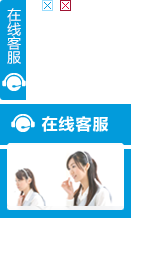
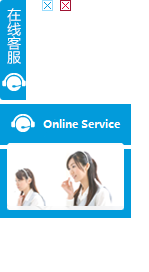
change the language

Changed region(s): [[0.2685, 0.4118, 0.8054, 0.5]]

diff --git a/public/stylesheets/style.css b/public/stylesheets/style.css
@@ -24,7 +24,7 @@ filter: progid:DXImageTransform.Microsoft.AlphaImageLoader(enabled=true, sizingM
 #topLink a{font-size:12px;color:#999;}
 #topLink a:hover{font-size:12px;color:#fff;}
 
-#copyright{position:absolute; right:50px; bottom:5px; z-index:888; width:400px; height:39px;}
+#copyright{position:absolute; right:50px; bottom:0px; z-index:888; width:400px; height:39px;}
 #footerbg{position:absolute; left:0px; bottom:0px; z-index:777; background:url(../images/footer.jpg); height:39px;}
 
 #sub_nav{height:339px; width:100%;background:url(../images/sub_menu_bg.png) repeat-x; display:none; margin-top:-1px; position:relative;}

diff --git a/models/switch_lang.js b/models/switch_lang.js
@@ -7,9 +7,12 @@ var dbService = require("../db"),
     async = require('async');
 
 var index = function(req,res){
-    var kind = req.body['language'];
+    /*var kind = req.body['language'];
     req.session.lang = kind;
-    res.send('success');
+    res.send('success');*/
+    var kind = req.query.lang;//category id
+    req.session.lang = kind;
+    res.redirect("/");
 };
 
 exports.index= index;
